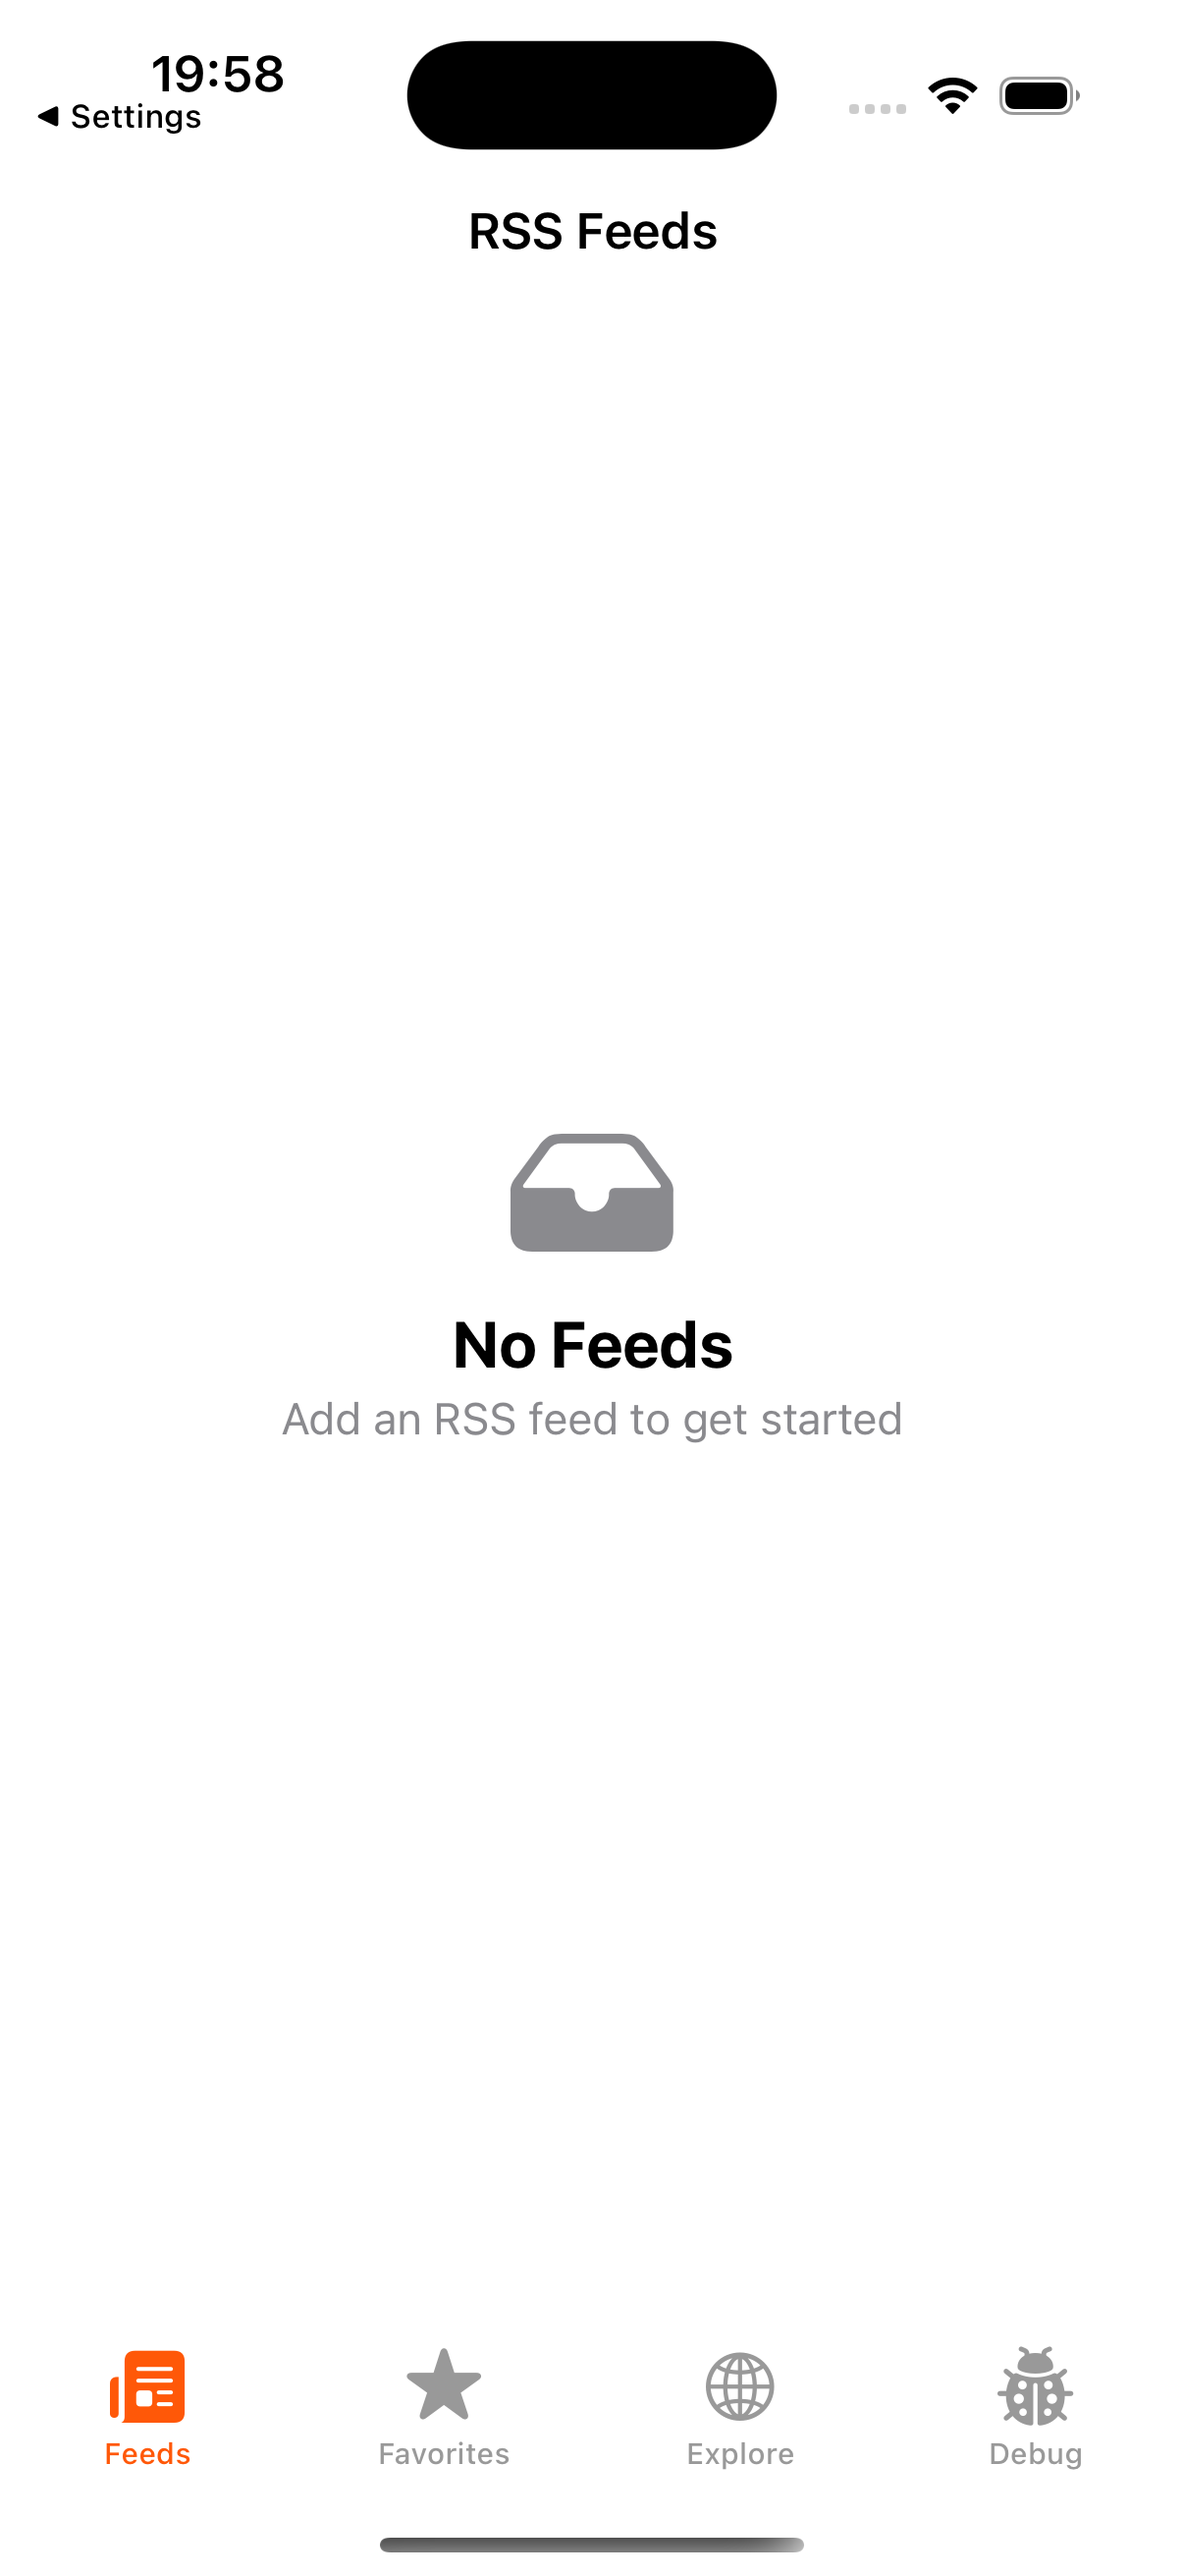
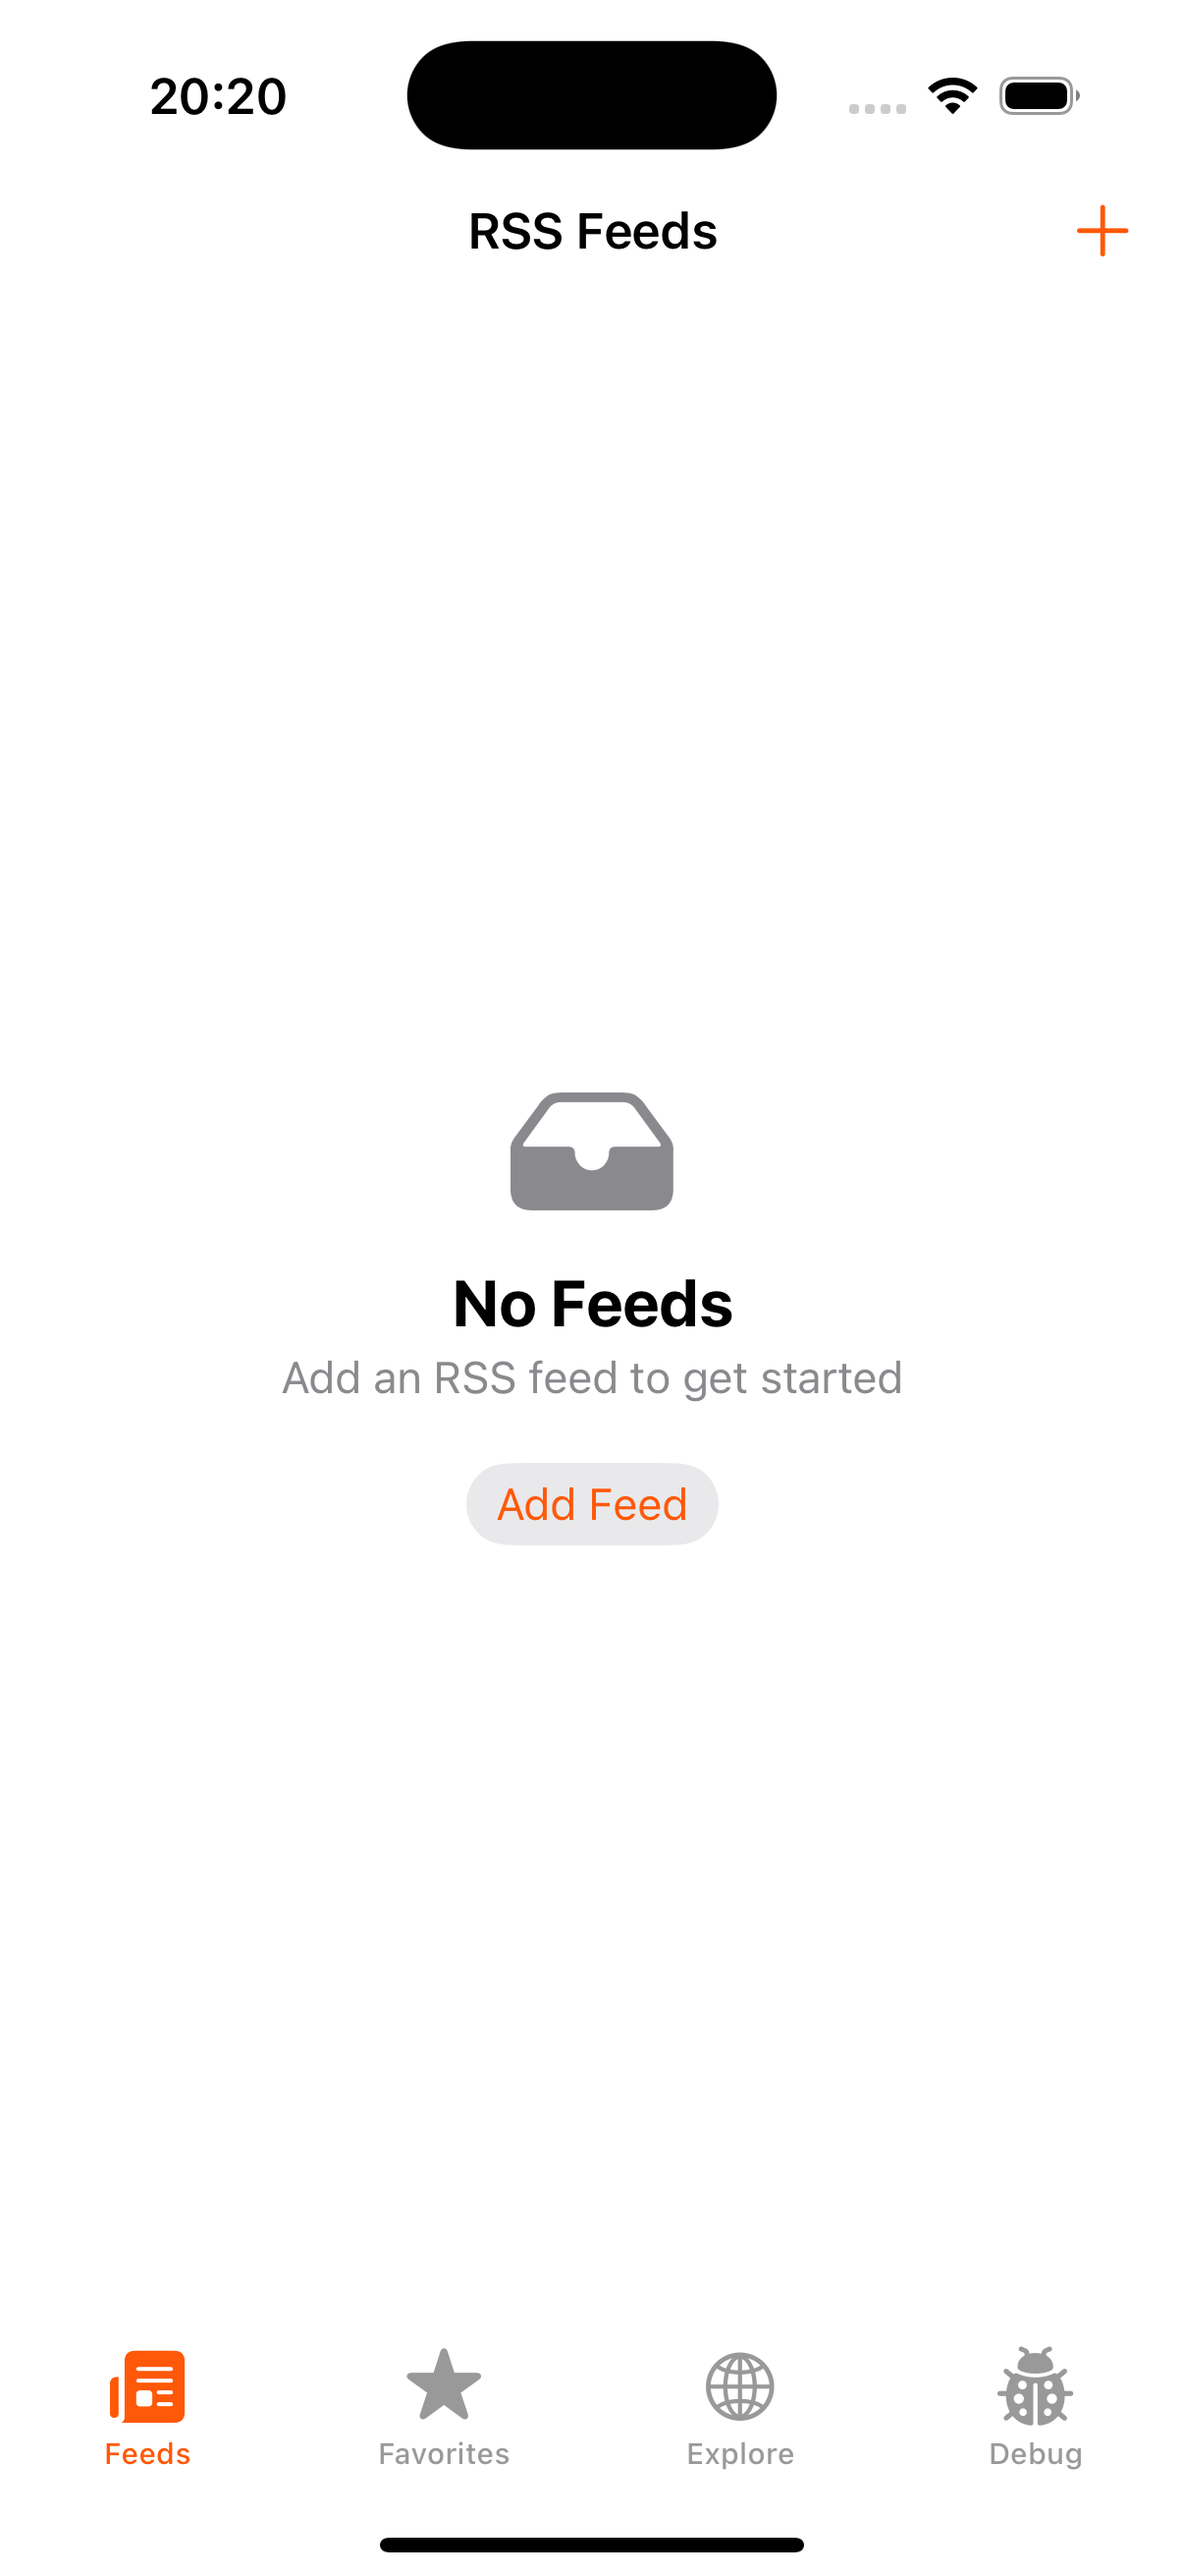
Cleanup

diff --git a/RSSReaderKit/Sources/FeedListFeature/FeedList/FeedListView.swift b/RSSReaderKit/Sources/FeedListFeature/FeedList/FeedListView.swift
@@ -36,7 +36,7 @@ public struct FeedListView<ViewModel: FeedListViewModelProtocol>: View {
                     title: viewModel.emptyStateTitle,
                     systemImage: Constants.Images.noItemsIcon,
                     description: viewModel.emptyStateDescription,
-                    primaryAction: viewModel.showEditButton ? { showingAddFeed = true } : nil,
+                    primaryAction: viewModel.showAddButton ? { showingAddFeed = true } : nil,
                     primaryActionLabel: viewModel.primaryActionLabel
                 )
                 
@@ -78,20 +78,26 @@ public struct FeedListView<ViewModel: FeedListViewModelProtocol>: View {
                     EditButton()
                         .testId(AccessibilityIdentifier.FeedList.editButton)
                 }
+            }
             
-                ToolbarItem(placement: .primaryAction) {
-                    Button {
-                        showingAddFeed = true
-                    } label: {
-                        Label(LocalizedStrings.FeedList.addFeed,
-                              systemImage: Constants.Images.addIcon)
-                    }
-                    .testId(AccessibilityIdentifier.FeedList.addFeedButton)
-                }
+            if viewModel.showAddButton {
+                addButton
             }
         }
         .sheet(isPresented: $showingAddFeed) {
             AddFeedView()
+        }
+    }
+    
+    private var addButton: ToolbarItem<(), some View> {
+        ToolbarItem(placement: .primaryAction) {
+            Button {
+                showingAddFeed = true
+            } label: {
+                Label(LocalizedStrings.FeedList.addFeed,
+                      systemImage: Constants.Images.addIcon)
+            }
+            .testId(AccessibilityIdentifier.FeedList.addFeedButton)
         }
     }
 }

diff --git a/RSSReaderKit/Sources/FeedListFeature/FeedList/FeedListViewModelProtocol.swift b/RSSReaderKit/Sources/FeedListFeature/FeedList/FeedListViewModelProtocol.swift
@@ -17,6 +17,7 @@ public protocol FeedListViewModelProtocol: Observable {
     var state: ViewState<[Feed]> { get set }
     
     var showEditButton: Bool { get }
+    var showAddButton: Bool { get }
     var navigationTitle: String { get }
     var listAccessibilityId: String { get }
     var emptyStateTitle: String { get }
@@ -33,6 +34,7 @@ public protocol FeedListViewModelProtocol: Observable {
 }
 
 extension FeedListViewModelProtocol {
+    public var showAddButton: Bool { true }
     public var showEditButton: Bool { !feeds.isEmpty }
     public var navigationTitle: String { LocalizedStrings.FeedList.rssFeeds }
     public var listAccessibilityId: String { AccessibilityIdentifier.FeedList.feedsList }

diff --git a/RSSReaderKit/Sources/FeedListFeature/FeedList/FavoriteFeedsViewModel.swift b/RSSReaderKit/Sources/FeedListFeature/FeedList/FavoriteFeedsViewModel.swift
@@ -29,6 +29,7 @@ public class FavoriteFeedsViewModel: FeedListViewModelProtocol {
     private var notificationsTask: Task<Void, Never>?
     
     public var showEditButton: Bool { false }
+    public var showAddButton: Bool { false }
     public var navigationTitle: String { LocalizedStrings.FeedList.favoriteFeeds }
     public var listAccessibilityId: String { AccessibilityIdentifier.FeedList.favoritesList }
     public var emptyStateTitle: String { LocalizedStrings.FeedList.noFavorites }

diff --git a/RSSReaderKit/Tests/FeedItemsTests/FeedItemsViewModelTests.swift b/RSSReaderKit/Tests/FeedItemsTests/FeedItemsViewModelTests.swift
@@ -62,7 +62,7 @@ import Common
             
             await viewModel.waitForLoadToFinish()
             
-            if case .loaded(let loadedItems) = viewModel.state {
+            if case .content(let loadedItems) = viewModel.state {
                 #expect(loadedItems.count == 2)
                 #expect(loadedItems[0].title == "Item 1")
                 #expect(loadedItems[1].title == "Item 2")
